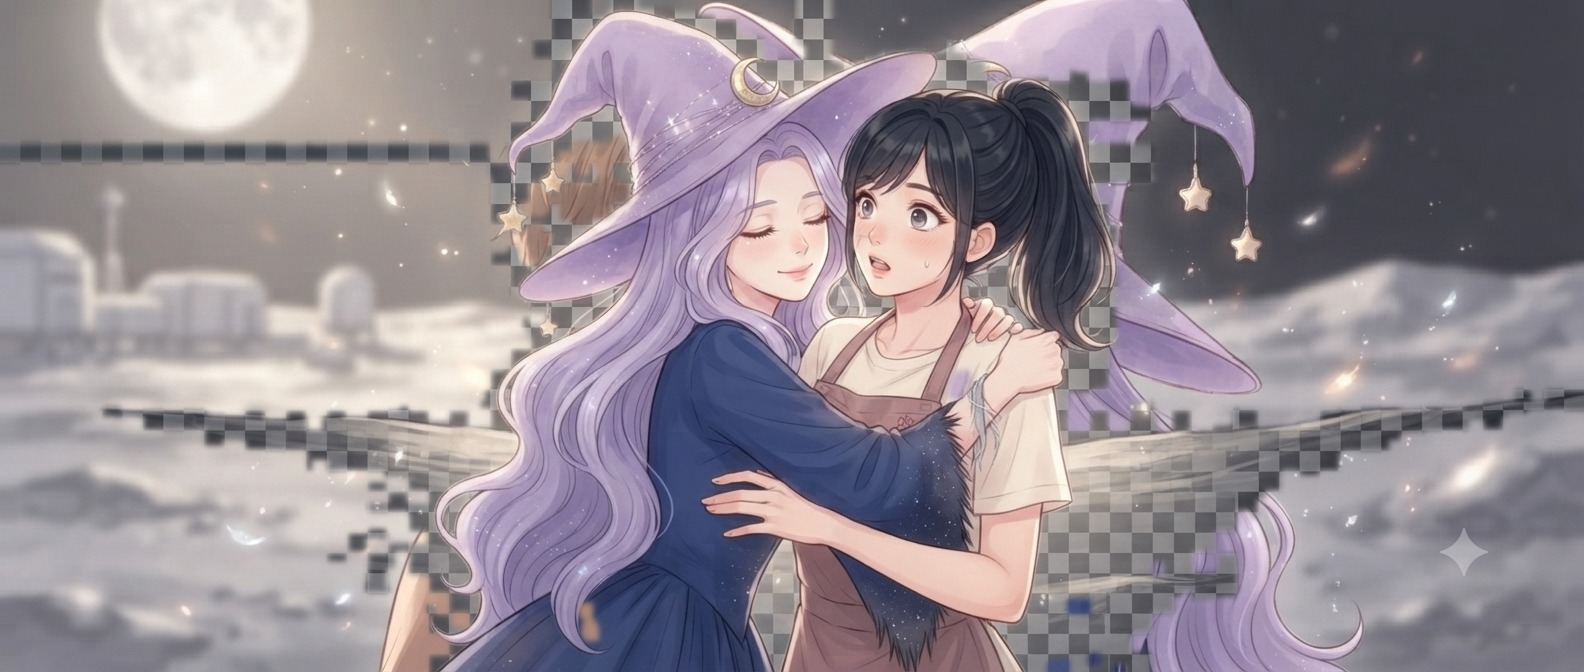
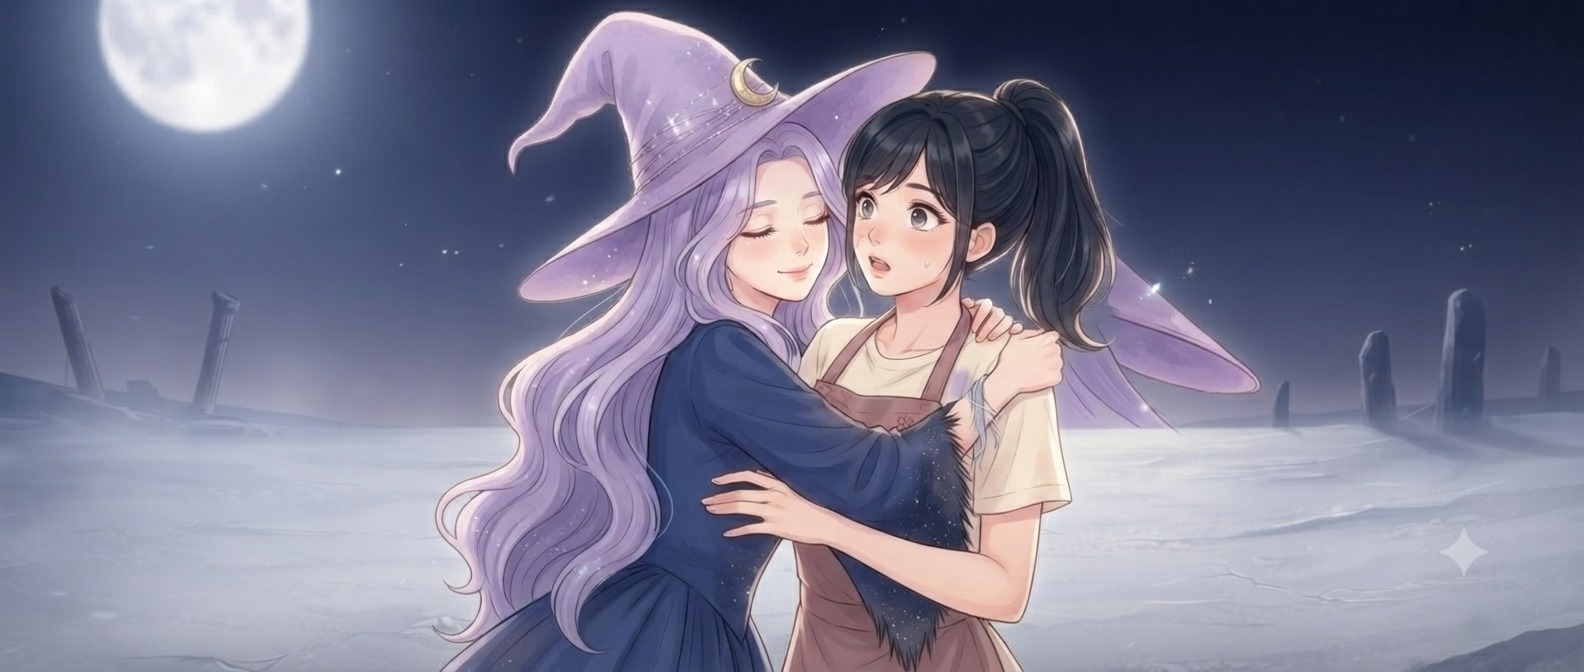
위기 봉인고 CG 추가 + lunashadow_thanks_f 배경 합성 오류 수정
- CG_DEX에 cg_crisis_vault_three(봉인고, 셋이서) 신규 등록, CRISIS_VAULT_CUTS 첫 컷에 연결
- cg_lunashadow_thanks_f.jpg 교체: 체크무늬 알파 노출되던 깨진 배경 합성을 풀장면으로 재생성

diff --git a/index.html b/index.html
@@ -2335,6 +2335,7 @@ const CG_DEX = [
   { cat:'특별',   k:'cg_golem_defeat',             t:'고맙다, 다시 데워줘서' },
   { cat:'특별',   k:'cg_lunashadow_meet',          t:'달의 뒷면' },
   { cat:'특별',   k:'cg_lunashadow_thanks',        t:'백 년의 몫' },
+  { cat:'특별',   k:'cg_crisis_vault_three',       t:'봉인고, 셋이서' },
 ];
 // 이벤트 도감은 '가로 원본'으로 감상 — 게임 내 컷신은 세로(폰 화면 꽉참) 유지.
 // 세로로 재구성해 교체된 CG는 가로 원본을 assets/art/dex/에 별도 보관하고 도감만 그걸 참조.
@@ -2551,7 +2552,7 @@ const CRISIS_ROA = [
 // 세 단골이 각자 다른 이유로 나타나 '구경꾼'을 부순다 — 세라는 이름을 잃은 채(에코 표기)로 온다.
 // 로아는 CRISIS_ROA에서 가게를 지킨다고 했다가 결국 닫고 왔다 — 형식보다 곁을 택하는 게 그의 아크.
 const CRISIS_VAULT_CUTS = [
-  { who:'boss', text:"(봉인고의 문이 열린다.)" },
+  { who:'boss', text:"(봉인고의 문이 열린다.)", cg:"assets/art/cg_crisis_vault_three.jpg", cgc:"봉인고, 셋이서. 로아는 가게를 닫고, 루나는 나눠 지려고, 세라는 이름 없이도 발이 이곳으로 왔다." },
   { who:'m_roa', text:"구경? …단골인데." },
   { who:'m_roa', text:"가게는 하루 닫았어. 이런 날 내린 커피는 맛이 없거든." },
   { who:'m_luna', text:"백 년 전엔 나 혼자 이 봉인을 졌어. 그래서 알아 — 혼자 지는 무게라는 걸. …이번엔 나눠 질 거야." },
